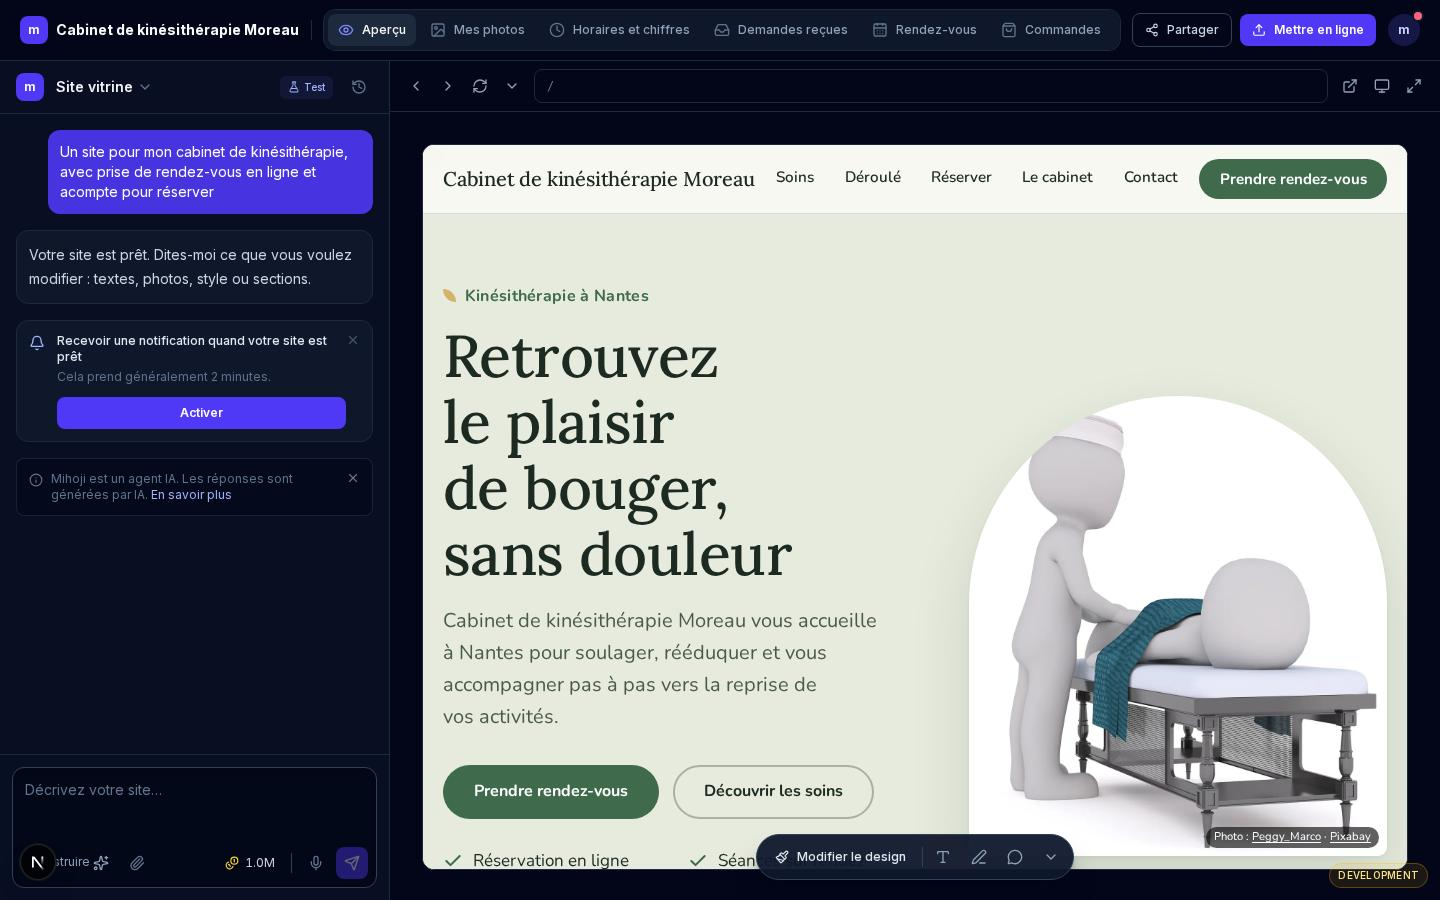
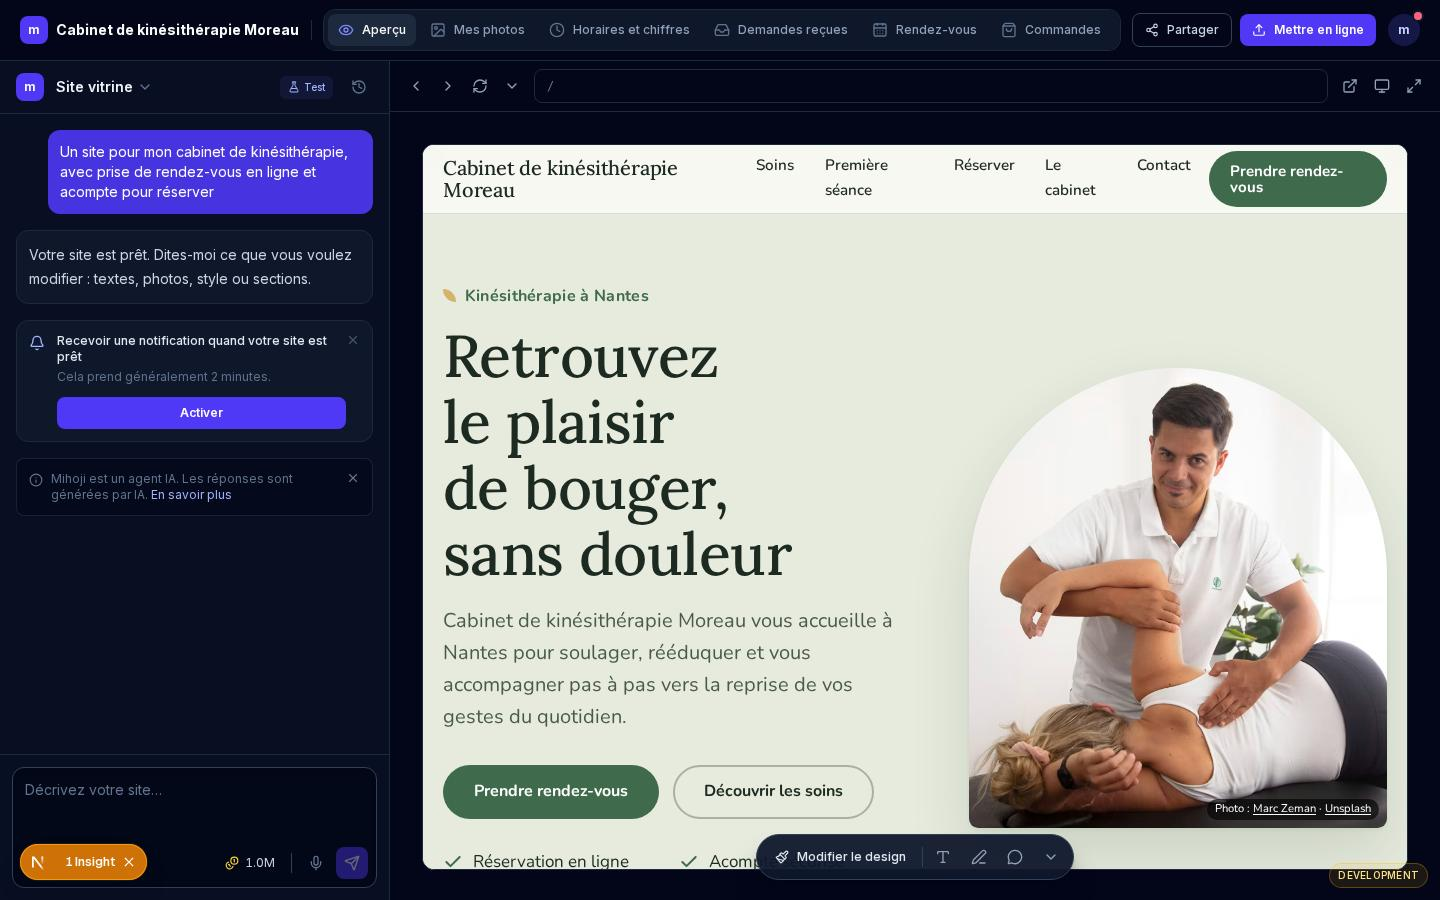
Photos des prestations : affichage sans trou, mode fiable du classement, cache Pixabay limité à 24 h (adresses expirantes), diagnostic optionnel

diff --git a/mihoji-app/src/lib/photos/service.ts b/mihoji-app/src/lib/photos/service.ts
@@ -8,6 +8,7 @@ import { assignSlots, pendingSlots } from './assign';
 import { LocalLibraryProvider } from './local';
 import { hostPixabayPhotos } from './hosting';
 import { PixabayProvider } from './pixabay';
+import { effectiveCacheSource, isCacheFresh } from './cache-policy';
 import { pixabayWindow, unsplashAllowed } from './rate-window';
 import { applyPhotoRules } from './rules';
 import { normalizeQuery, rankCandidates, rankForSlot, simplerQueries } from './select';
@@ -36,7 +37,8 @@ async function cached(key: string): Promise<PhotoCandidate[] | null> {
   const hit = memory.get(key);
   if (hit) return hit;
   const [row] = await getDb().select().from(photoCache).where(and(eq(photoCache.query, key), gt(photoCache.fetchedAt, sql`now() - make_interval(days => ${CACHE_DAYS})`))).limit(1);
-  if (!row) return null;
+  // Les adresses Pixabay expirent : une réponse de plus de 24 h est ignorée (nouvelle recherche), sinon le téléchargement pour l'hébergement échoue.
+  if (!row || !isCacheFresh(effectiveCacheSource(row.source, (row.candidates as PhotoCandidate[]).map((candidate) => candidate.src)), row.fetchedAt)) return null;
   const candidates = row.candidates as PhotoCandidate[];
   memory.set(key, candidates);
   return candidates;
@@ -137,7 +139,7 @@ export async function resolveSitePhotos(site: SiteDescription, options: Options 
   const ranked = slots.map((slot) => {
     const queries = [slot.query as string, ...(slot.alternatives ?? [])].map(normalizeQuery);
     const pool = [...new Map(queries.flatMap((query) => library.get(query) ?? []).map((candidate) => [candidate.src, candidate])).values()];
-    return rankForSlot(pool, queries, 3);
+    return rankForSlot(pool, queries, 3, { trusted: remote });
   });
 
   // Contrôle visuel (un seul appel pour tout le site). Sans contrôle possible (simulation, pas de clé, panne), le classement par mots-clés fait foi.
@@ -172,7 +174,7 @@ export async function resolveSitePhotos(site: SiteDescription, options: Options 
         const result = await unsplash.search(query);
         budget = Math.min(budget - 1, result.remaining === undefined ? budget - 1 : result.remaining - 5);
         report.unsplashCalls += 1;
-        const found = rankForSlot(rankCandidates(result.candidates, query, 8, { trusted: true }), [query], 3);
+        const found = rankForSlot(rankCandidates(result.candidates, query, 8, { trusted: true }), [query], 3, { trusted: true });
         if (found.length) rescue.push({ id, subject: `${slots[id].alt} (recherche : ${slots[id].query})`, candidates: found });
       } catch (error) {
         console.error('Unsplash rescue failed.', error);

diff --git a/mihoji-app/src/lib/site/content-photos.test.ts b/mihoji-app/src/lib/site/content-photos.test.ts
@@ -46,16 +46,29 @@ describe('une photo par prestation', () => {
     expect((html.match(/class="media-box svc-photo"/g) ?? []).length).toBe(section.items.length);
     expect(html).toContain('svc-item--photo');
   });
-  it('garde les photos trouvées et met un visuel graphique aux prestations restées sans photo', () => {
-    const ruled = applyPhotoRules(withServicePhotos(1)).site;
+  const itemCount = () => { const section = services(base()); if (section.type !== 'services') throw new Error(); return section.items.length; };
+  it('si au moins la moitié des prestations ont une photo, garde toutes les photos trouvées et met un visuel graphique aux autres', () => {
+    const half = Math.ceil(itemCount() / 2);
+    const ruled = applyPhotoRules(withServicePhotos(half)).site;
     const section = services(ruled);
     if (section.type !== 'services') throw new Error();
-    expect(section.items.filter((item) => item.image?.src)).toHaveLength(1);
+    expect(section.items.filter((item) => item.image?.src)).toHaveLength(half);
     const html = renderSite(ruled).files['index.html'];
     expect(html).toContain('svc-item--photo');
-    // une carte à vraie photo, les autres avec le visuel graphique du thème (cadre « placeholder » avec icône, jamais un cadre vide)
-    expect((html.match(/<img class="media"/g) ?? []).length).toBeGreaterThanOrEqual(1);
-    expect((html.match(/media-box svc-photo media--placeholder/g) ?? []).length).toBe(section.items.length - 1);
+    expect((html.match(/<img class="media"/g) ?? []).length).toBeGreaterThanOrEqual(half);
+    expect((html.match(/media-box svc-photo media--placeholder/g) ?? []).length).toBe(section.items.length - half);
+  });
+  it('si moins de la moitié des prestations ont une photo, AUCUN cadre photo : cartes à icône propres, sans « trou »', () => {
+    const fewer = Math.ceil(itemCount() / 2) - 1;
+    expect(fewer).toBeGreaterThanOrEqual(1);
+    const ruled = applyPhotoRules(withServicePhotos(fewer)).site;
+    const section = services(ruled);
+    if (section.type !== 'services') throw new Error();
+    expect(section.items.every((item) => !item.image)).toBe(true);
+    const html = renderSite(ruled).files['index.html'];
+    expect(html).not.toContain('svc-item--photo');
+    expect(html).not.toContain('svc-photo');
+    expect(html).toContain('svc-icon');
   });
   it('sans aucune photo trouvée, les prestations restent des cartes à icône, sans cadre photo', () => {
     const ruled = applyPhotoRules(withServicePhotos(0)).site;

diff --git a/mihoji-app/src/lib/site/design-debug.ts b/mihoji-app/src/lib/site/design-debug.ts
@@ -1,0 +1,40 @@
+import 'server-only';
+
+import { mkdirSync, writeFileSync } from 'node:fs';
+import { resolve } from 'node:path';
+import type { PhotoReport } from '@/lib/photos/service';
+import type { SiteDescription } from './schema';
+
+// Diagnostic facultatif (DESIGN_DEBUG_DIR) : enregistre, pour une génération, les emplacements d'images demandés par le modèle, le rapport de la recherche de photos
+// et ce qui reste dans le site final, AVANT que les données d'un test ne soient nettoyées. Inactif sans la variable ; jamais utilisé en production.
+const imageQueries = (value: unknown): { query: string; alt?: string }[] => {
+  const found: { query: string; alt?: string }[] = [];
+  const walk = (node: unknown) => {
+    if (Array.isArray(node)) node.forEach(walk);
+    else if (node && typeof node === 'object') {
+      const record = node as Record<string, unknown>;
+      if (typeof record.query === 'string') found.push({ query: record.query, alt: typeof record.alt === 'string' ? record.alt : undefined });
+      Object.values(record).forEach(walk);
+    }
+  };
+  walk(value);
+  return found;
+};
+
+export function dumpDesignDebug(input: { request: string; requested: SiteDescription; final: SiteDescription; report: PhotoReport }): void {
+  const dir = process.env.DESIGN_DEBUG_DIR;
+  if (!dir || process.env.NODE_ENV === 'production' || process.env.APP_ENV === 'production') return;
+  try {
+    mkdirSync(dir, { recursive: true });
+    const sections = (site: SiteDescription) => site.pages[0].sections.map((section) => ({ type: section.type, slots: imageQueries(section), photos: (JSON.stringify(section).match(/"src":"[^"]*"/g) ?? []).length }));
+    const services = input.final.pages[0].sections.find((section) => section.type === 'services');
+    writeFileSync(resolve(dir, `generation-${Date.now()}.json`), JSON.stringify({
+      request: input.request, report: input.report, requestedSections: sections(input.requested), finalSections: sections(input.final),
+      servicesWithPhoto: services && services.type === 'services' ? { total: services.items.length, withPhoto: services.items.filter((item) => item.image?.src).length } : null,
+      aboutWithPhoto: input.final.pages[0].sections.some((section) => section.type === 'about' && Boolean(section.image?.src)),
+      requestedDescription: input.requested, finalDescription: input.final,
+    }, null, 2));
+  } catch (error) {
+    console.warn('Design debug dump failed.', error instanceof Error ? error.message : error);
+  }
+}

diff --git a/mihoji-app/src/lib/site/image-slots.test.ts b/mihoji-app/src/lib/site/image-slots.test.ts
@@ -1,0 +1,32 @@
+import { describe, expect, it } from 'vitest';
+import { imageSlots } from '../photos/assign';
+import { designSystemPrompt, sectionGuide } from './design-prompt';
+import { samples } from './samples';
+import { siteSchema } from './schema';
+
+// Mission photos des prestations : ce que le modèle PEUT et DOIT demander (schéma et consigne), et ce qu'il en reste après validation.
+describe('emplacements d’images demandés par le modèle', () => {
+  const site = () => {
+    const base = structuredClone(samples.find((sample) => JSON.stringify(sample.site).includes('"type":"services"'))!.site) as { pages: { sections: Record<string, unknown>[] }[] };
+    const sections = base.pages[0].sections;
+    const services = sections.find((section) => section.type === 'services') as { items: Record<string, unknown>[] };
+    services.items = services.items.map((item, index) => ({ ...item, image: { query: `physiotherapist treating ${['knee', 'back', 'shoulder', 'neck', 'ankle', 'hip', 'wrist', 'elbow'][index % 8]} patient`, alt: `Soin : ${item.title}` } }));
+    const about = sections.find((section) => section.type === 'about');
+    if (about) about.image = { query: 'friendly physiotherapist portrait clinic', alt: 'Portrait de la kinésithérapeute dans son cabinet' };
+    return siteSchema.parse(base);
+  };
+  it('le schéma garde une requête de photo sur chaque prestation et sur le portrait de la présentation', () => {
+    const built = site();
+    const queries = imageSlots(built).map((slot) => slot.query);
+    const services = built.pages[0].sections.find((section) => section.type === 'services');
+    if (services?.type !== 'services') throw new Error();
+    for (const item of services.items) expect(item.image?.query, item.title).toBeTruthy();
+    expect(queries).toContain('friendly physiotherapist portrait clinic');
+  });
+  it('la consigne demande une photo par prestation, un portrait pour les praticiens, et l’indique dans le guide des champs', () => {
+    expect(sectionGuide).toMatch(/services[^\n]*image\? \{query, alt\}/);
+    expect(designSystemPrompt).toContain('une photo par prestation');
+    expect(designSystemPrompt).toContain('portrait de professionnel');
+    expect(designSystemPrompt).toContain('jamais de galerie pour un praticien');
+  });
+});

diff --git a/mihoji-app/src/lib/photos/rules.ts b/mihoji-app/src/lib/photos/rules.ts
@@ -18,12 +18,14 @@ export function applyPhotoRules(site: SiteDescription): { site: SiteDescription;
       // Sans photo, un bandeau ou une présentation à cadre photo devient une composition typographique (pas de cadre vide).
       if (section.type === 'hero' && !section.image?.src && section.variant !== 'centered') { section.variant = 'centered'; delete section.image; }
       if (section.type === 'about' && !section.image?.src && section.variant !== 'text') { section.variant = 'text'; delete section.image; }
-      // Une photo par prestation : on garde TOUTES les photos trouvées (variante « cartes »), et une prestation sans photo reçoit à l'affichage
-      // un visuel graphique aux couleurs du thème, avec son icône. Aucune photo trouvée : cartes à icône, sans cadre photo.
+      // Une photo par prestation : si au moins la moitié des prestations ont une vraie photo, on les garde toutes (variante « cartes ») et une prestation
+      // sans photo reçoit à l'affichage un visuel graphique aux couleurs du thème, avec son icône. Si moins de la moitié en ont une, AUCUN cadre photo :
+      // cartes à icône propres, sans « trou » (les rares photos trouvées sont retirées pour ne pas mêler une photo à une majorité de cadres graphiques).
       if (section.type === 'services') {
         const withPhoto = section.items.filter((item) => item.image?.src).length;
-        if (withPhoto > 0 && section.variant !== 'list') section.variant = 'cards';
-        section.items = section.items.map((item) => { if (item.image?.src) return item; const { image, ...rest } = item; void image; return rest; });
+        const enough = withPhoto > 0 && withPhoto * 2 >= section.items.length;
+        if (enough && section.variant !== 'list') section.variant = 'cards';
+        section.items = section.items.map((item) => { if (enough && item.image?.src) return item; const { image, ...rest } = item; void image; return rest; });
       }
       if (section.type === 'products') {
         const withPhoto = section.items.filter((item) => item.image?.src).length;

diff --git a/mihoji-app/src/lib/photos/cache-policy.test.ts b/mihoji-app/src/lib/photos/cache-policy.test.ts
@@ -1,0 +1,30 @@
+import { describe, expect, it } from 'vitest';
+import { effectiveCacheSource, isCacheFresh } from './cache-policy';
+
+const now = new Date('2026-11-16T12:00:00Z');
+const ago = (hours: number) => new Date(now.getTime() - hours * 3_600_000);
+
+describe('durée du cache des photos', () => {
+  it('Pixabay : 24 heures au plus (ses adresses expirent)', () => {
+    expect(isCacheFresh('pixabay', ago(1), now)).toBe(true);
+    expect(isCacheFresh('pixabay', ago(24), now)).toBe(true);
+    expect(isCacheFresh('pixabay', ago(25), now)).toBe(false);
+    expect(isCacheFresh('pixabay', ago(8 * 24), now)).toBe(false); // le cas constaté : 8 jours, HTTP 400
+  });
+  it('Unsplash : un mois', () => {
+    expect(isCacheFresh('unsplash', ago(8 * 24), now)).toBe(true);
+    expect(isCacheFresh('unsplash', ago(29 * 24), now)).toBe(true);
+    expect(isCacheFresh('unsplash', ago(31 * 24), now)).toBe(false);
+  });
+  it('une entrée « unsplash » qui contient une adresse Pixabay suit la règle de Pixabay (anciennes entrées mixtes)', () => {
+    const mixed = ['https://images.unsplash.com/photo-1?w=800', 'https://pixabay.com/get/abc_1280.jpg'];
+    expect(effectiveCacheSource('unsplash', mixed)).toBe('pixabay');
+    expect(isCacheFresh(effectiveCacheSource('unsplash', mixed), ago(8 * 24), now)).toBe(false);
+    expect(effectiveCacheSource('unsplash', ['https://images.unsplash.com/photo-1'])).toBe('unsplash');
+    expect(isCacheFresh(effectiveCacheSource('unsplash', ['https://images.unsplash.com/photo-1']), ago(8 * 24), now)).toBe(true);
+    expect(effectiveCacheSource('pixabay', [])).toBe('pixabay');
+  });
+  it('une date dans le futur (horloge décalée) est considérée comme fraîche', () => {
+    expect(isCacheFresh('pixabay', new Date(now.getTime() + 60_000), now)).toBe(true);
+  });
+});

diff --git a/mihoji-app/src/lib/photos/select.ts b/mihoji-app/src/lib/photos/select.ts
@@ -83,13 +83,15 @@ export function rankCandidates(candidates: PhotoCandidate[], query: string, limi
 
 // Classement pour un emplacement qui a plusieurs formulations (requête principale + alternatives) : chaque photo prend sa meilleure note,
 // les doublons (même photo trouvée par deux requêtes) sont fusionnés.
-export function rankForSlot(pool: PhotoCandidate[], queries: string[], limit = 3): PhotoCandidate[] {
+// trusted : candidates d'une vraie recherche (Pixabay, Unsplash), dont le texte ne cite pas toujours les mots de la requête (« plumber fixing sink pipe » : 0 photo sur 8
+// gardée par le filtre de couverture dans le cache réel). On n'écarte alors que les motifs hors sujet : le contrôle visuel tranche ensuite.
+export function rankForSlot(pool: PhotoCandidate[], queries: string[], limit = 3, options: { trusted?: boolean } = {}): PhotoCandidate[] {
   const best = new Map<string, { candidate: PhotoCandidate; score: number }>();
   pool.forEach((candidate, rank) => {
     for (const query of queries) {
-      if (coverage(candidate, query) < MIN_COVERAGE) continue;
+      if (options.trusted ? isOffTopic(candidate, query) : coverage(candidate, query) < MIN_COVERAGE) continue;
       const score = scoreCandidate(candidate, query, rank % 20);
-      if (score <= 2) continue;
+      if (!options.trusted && score <= 2) continue;
       const known = best.get(candidate.src);
       if (!known || score > known.score) best.set(candidate.src, { candidate, score });
     }

diff --git a/mihoji-app/src/lib/photos/q2.test.ts b/mihoji-app/src/lib/photos/q2.test.ts
@@ -129,3 +129,22 @@ describe('Pixabay', () => {
     expect(html).not.toContain('Unsplash');
   });
 });
+
+import { rankForSlot as rankSlot } from './select';
+
+describe('classement par emplacement : mode fiable pour les vraies recherches', () => {
+  const candidate = (src: string, alt: string, tags: string[] = []) => ({ src, alt, description: '', tags, credit: { name: 'x', url: 'https://example.com' } }) as never;
+  const pool = [candidate('a', 'woman smiling in an office'), candidate('b', 'american flag on a building', ['flag']), candidate('c', 'massage therapy room', ['spa'])];
+  it('strict (bibliothèque locale) : exige la moitié des mots de la requête dans le texte de la photo', () => {
+    expect(rankSlot(pool, ['friendly physiotherapist portrait clinic'], 3)).toEqual([]);
+  });
+  it('fiable (Pixabay, Unsplash) : garde les photos dont le texte ne cite pas la requête, mais écarte toujours les motifs hors sujet', () => {
+    const kept = rankSlot(pool, ['friendly physiotherapist portrait clinic'], 3, { trusted: true }).map((entry) => (entry as unknown as { src: string }).src);
+    expect(kept).toContain('a');
+    expect(kept).toContain('c');
+    expect(kept).not.toContain('b'); // drapeau
+  });
+  it('respecte la limite demandée', () => {
+    expect(rankSlot(pool, ['office'], 1, { trusted: true })).toHaveLength(1);
+  });
+});

diff --git a/mihoji-app/src/lib/site/design-service.ts b/mihoji-app/src/lib/site/design-service.ts
@@ -10,6 +10,7 @@ import { LlmProviderError, type LlmProvider } from '@/lib/ai/providers/types';
 import { designRoute, type DesignTask } from '@/lib/ai/routing';
 import { createSiteDesign, restyleSiteDesign, type Complete, type CreateInput, type DesignResult } from './design';
 import { resolveSitePhotos, type PhotoReport } from '@/lib/photos/service';
+import { dumpDesignDebug } from './design-debug';
 import type { SiteFacts } from './facts';
 import { siteSchema, type SiteDescription } from './schema';
 import { applyUserPhotos, type UserPhoto } from './user-photos';
@@ -51,6 +52,7 @@ export async function runDesignGeneration(input: RunInput, signal?: AbortSignal)
       const withOwn = input.userPhotos?.length ? applyUserPhotos(result.value, input.userPhotos).site : result.value;
       const { site, report } = await resolveSitePhotos(withOwn, { offline: provider === 'mock', local: input.photos === 'local', patient: input.photos === 'real', onWait: (seconds) => console.info(`Quota Unsplash atteint : attente de ${Math.ceil(seconds / 60)} min.`) });
       photoCostEur = report.visionCostEur;
+      dumpDesignDebug({ request: input.request, requested: withOwn, final: site, report });
       result = { ...result, value: siteSchema.parse(site) };
       console.info('Photos resolved.', report);
       input.onPhotos?.(report);

diff --git a/mihoji-app/src/lib/photos/cache-policy.ts b/mihoji-app/src/lib/photos/cache-policy.ts
@@ -1,0 +1,17 @@
+// Durée de vie du cache des recherches de photos (logique pure, testée) : les adresses d'images de Pixabay EXPIRENT (HTTP 400 constaté après 8 jours) et
+// ses conditions d'utilisation demandent un cache de 24 heures au plus ; celles d'Unsplash restent valables, d'où un mois de cache.
+export const PIXABAY_CACHE_HOURS = 24;
+export const UNSPLASH_CACHE_DAYS = 30;
+
+// Une entrée de cache qui contient ne serait-ce qu'une adresse Pixabay suit la règle de Pixabay : d'anciennes entrées « mixtes » (Unsplash et Pixabay entrelacés)
+// étaient enregistrées comme « unsplash » tout en contenant des adresses Pixabay qui ont expiré.
+export function effectiveCacheSource(rowSource: string, srcs: string[]): string {
+  return srcs.some((src) => /^https:\/\/(?:[\w-]+\.)?pixabay\.com\//i.test(src)) ? 'pixabay' : rowSource;
+}
+
+export function isCacheFresh(source: string, fetchedAt: Date, now = new Date()): boolean {
+  const ageMs = now.getTime() - fetchedAt.getTime();
+  if (ageMs < 0) return true;
+  if (source === 'pixabay') return ageMs <= PIXABAY_CACHE_HOURS * 3_600_000;
+  return ageMs <= UNSPLASH_CACHE_DAYS * 86_400_000;
+}

diff --git a/mihoji-app/docs/phase-q-progress.md b/mihoji-app/docs/phase-q-progress.md
@@ -412,3 +412,12 @@ Couvert par `e2e/phase-q-lot-7-5.spec.ts`.
 - **Photos rejetées par le contrôle visuel** (compteurs réels de génération, 4 cas) : 53 → 18 ; requêtes restées sans photo : restaurant 4 → 0, coach 5 → 2, plombier 2 → 2, boulangerie 3 → 3 (couverture de la bibliothèque locale, pas du contrôle) ; plus aucune galerie masquée.
 - **Point d'attention** : le juge pénalise les cartes de prestations sans photo (aplat de couleur avec icône : « trou visible dans la grille ») : le plombier perd un point alors que ses 3 autres photos sont jugées correctes. À arbitrer : visuel graphique plus travaillé, ou prestation sans cadre quand moins de la moitié des cartes ont une photo.
 - Coût réel : génération 0,175 € (0,044 € par site), juge 0,041 €, total 0,216 € (annoncé : 0,30 €).
+
+## Photos des prestations — vérification avec la vraie IA et correctifs (2026-11-16)
+
+- **Le modèle demande bien les photos** (consigne et schéma corrects) : sur la génération réelle du kiné il a demandé 1 photo d'en-tête, **4 photos de prestations** et **1 portrait** (diagnostic `DESIGN_DEBUG_DIR`, `docs/benchmark/diagnostics`, non versionné). La cause du résultat pauvre n'était donc ni la consigne ni le schéma.
+- **Vraies causes, toutes corrigées** : (1) règle « toutes ou aucune » des prestations (supprimée) ; (2) contrôle visuel trop sévère (assoupli : rejet 49 % → 26 %) ; (3) filtre de couverture avant le contrôle visuel, qui écartait des emplacements entiers sur de vraies recherches (mode « fiable » pour Pixabay et Unsplash) ; (4) **cache de recherche trop long pour Pixabay** : ses adresses d'images expirent (HTTP 400 après 8 jours, 200 le jour même) alors que le cache durait 30 jours ; le téléchargement pour l'hébergement échouait (`hostFailed: 2`) et une prestation et le portrait retombaient en visuel graphique. Cache Pixabay ramené à **24 h** (conforme à ses conditions d'utilisation), y compris pour d'anciennes entrées « mixtes » contenant des adresses Pixabay.
+- **Règle d'affichage** : si moins de la moitié des prestations ont une vraie photo, aucun cadre photo (cartes à icône propres) ; sinon les photos trouvées sont gardées et les autres prestations reçoivent le visuel graphique du thème.
+- **Résultats mesurés** : génération réelle (avant le correctif du cache) : 3 prestations sur 4 avec photo, pas de portrait, 0,0926 €. Rejeu de la recherche de photos sur la même description après correctif (sans nouvelle génération, 0,002 € de contrôle visuel) : **4 prestations sur 4 avec photo, portrait obtenu, 0 échec d'hébergement**.
+- **Coût réel** : 0,0926 € (génération) + 0,004 € (deux rejeux) = ≈ 0,096 €. Tests : 276 tests unitaires, e2e : 65/65 avant le dernier correctif du cache, 5 e2e ciblés (photos, onboarding) après.
+- **Alerte hors périmètre** : `next` 16.4.3 est signalé vulnérable (avis npm) ; le serveur de développement s'arrête une fois au premier démarrage et affiche une recommandation de mise à jour. Aucune mise à jour n'a été faite.
